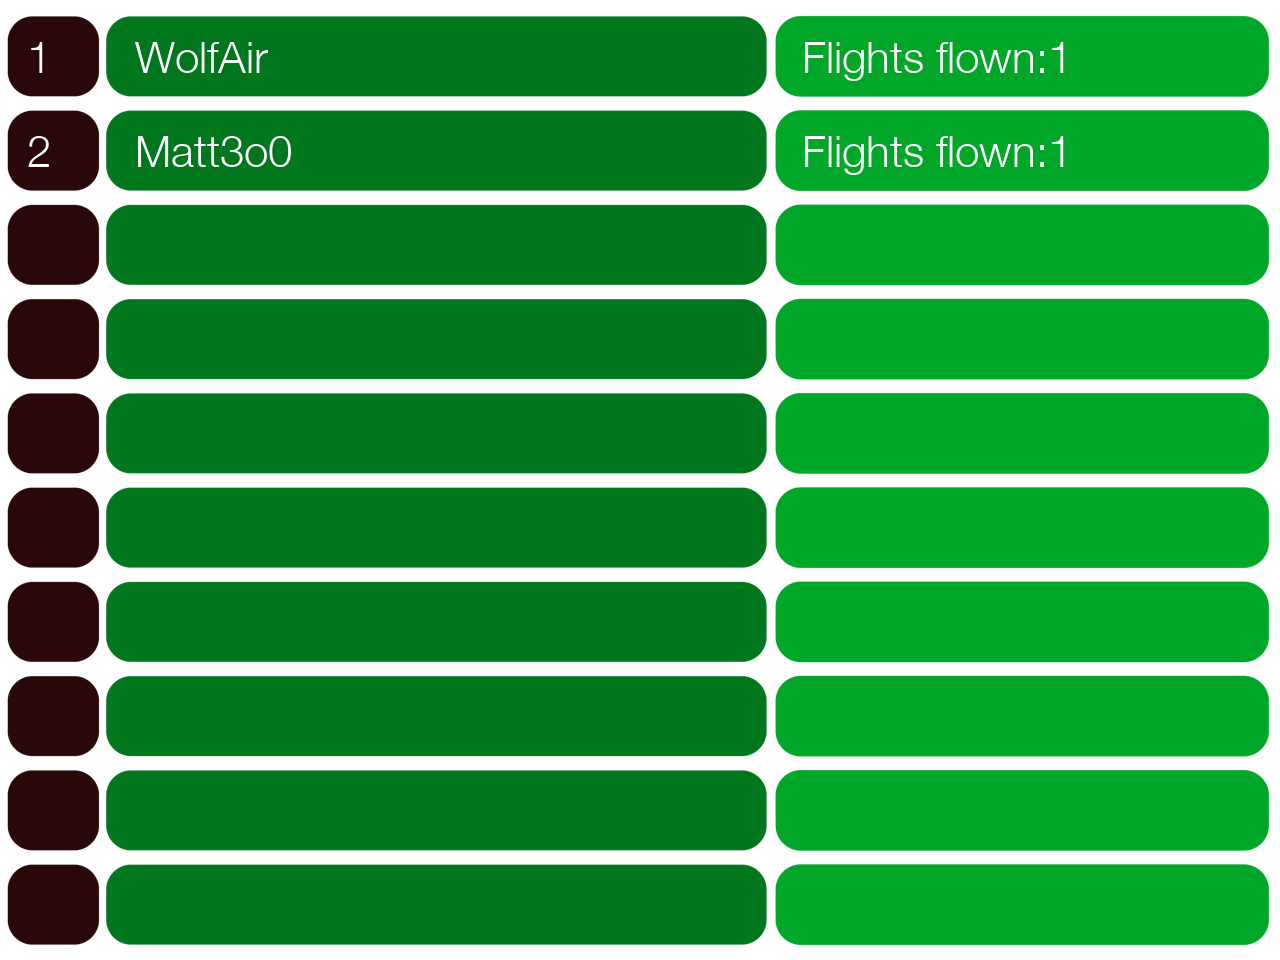
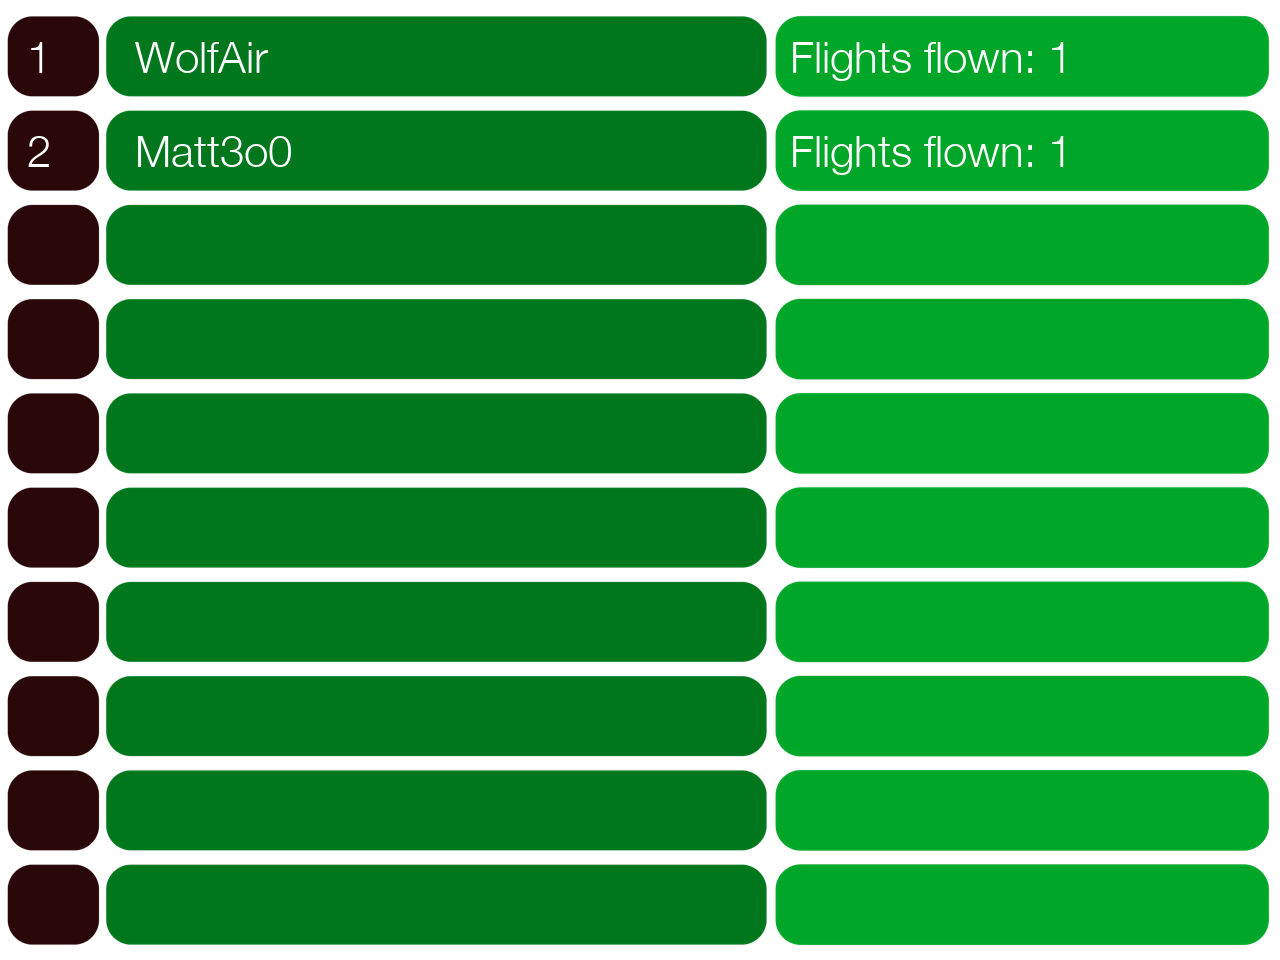
Bug fixes

Changed region(s): [[0.625, 0.0312, 0.8125, 0.0938], [0.625, 0.125, 0.8125, 0.1875]]

diff --git a/main.py b/main.py
@@ -2060,6 +2060,8 @@ async def vareport(ctx, flightnumber,report):
   else:
         embed=discord.Embed(title="Error 503!", description="You need to train before using this command", color=errorc)
         await ctx.respond(embed=embed)
+
+
 @va.command(name="divert", description="If you need to divert to another airport you can with this command.")
 @option("divert", description="The airport you will divert/have diverted to.")
 async def divert(ctx, airport):
@@ -2205,6 +2207,8 @@ async def flights_app(ctx, user: discord.Member):
   else:
       embed=discord.Embed(title="Error 503!", description="The bot is currently not hosted on <@668874138160594985>'s computer, so I'm unable to save data, tell him and he'll host it for you.", color=errorc)
       await ctx.respond(embed=embed)
+
+
 @va.command(name="stats", description="Show general statistics about the whole VA.")
 async def vastats(ctx):
   cmnac = []
@@ -2247,8 +2251,10 @@ async def vastats(ctx):
   if __name__ == "__main__":
                   cmnac = delstr(cmnac)
                   cmnac = delstr(cmnac)
-  def most_frequent(List):
-            return max(set(List), key = List.count)
+
+  while ("" in cmnac):
+    cmnac.remove("")
+
   def most_frequent(List):
             return max(set(List), key = List.count)
 
@@ -2258,10 +2264,7 @@ async def vastats(ctx):
   cmnac = f"{most_frequent(cmnac)}".replace(",","")
   embed = discord.Embed(title="ClearFly VA Statistics", color=cfc)
   embed.add_field(name="Total Flights:", value=f" {output}")
-  if cmnac == "":
-    embed.add_field(name="Most Common Aircraft:", value=f"Not enough data available")
-  else:
-    embed.add_field(name="Most Common Aircraft:", value=f" {cmnac}")
+  embed.add_field(name="Most Common Aircraft:", value=f" {cmnac}")
   embed.add_field(name="Most Common Destination:", value=f" {cmndest}")
   embed.add_field(name="_ _", value="\n*Notice: Both 'Most Common Aircraft' and 'Most Common Destination' will have a random selected value of 2 or more elements with the same frequency if that is the case.*", inline=True)
   await ctx.respond(embed=embed)
@@ -2280,7 +2283,7 @@ async def valb(ctx):
           filen = filename.replace("ClearFly_VA/users/", f"")
           id=os.path.dirname(filen)
           user = bot.get_user(int(id))
-          line = f"Flights flown:{nof}\n"
+          line = f"{nof} Flights flown: \n"
           line2 = f"{nof} {user.name}"
           output.append(line)
           nameoutput.append(line2)
@@ -2288,7 +2291,7 @@ async def valb(ctx):
     nameoutput.sort(reverse=True)
     def movestr(lst):
       return [
-          f"{' '.join(elem.split()[2:]).rstrip()} {' '.join(elem.split()[:2])}\n"
+          f"{' '.join(elem.split()[1:]).rstrip()} {' '.join(elem.split()[:1])}\n"
           for elem in lst
       ]
           
@@ -2620,7 +2623,7 @@ class HelpView(discord.ui.View):
 /utility github : Shows the bot's GitHub repository.
 /utility math basic: Do some basic math.
 /utility math advanced: Do some advanced math.
-/utility level: Get someone's level.
+/utitlity metar : Get the metar data of an airport.
 ```
                 """)
           await interaction.response.edit_message(embed=embutil)
